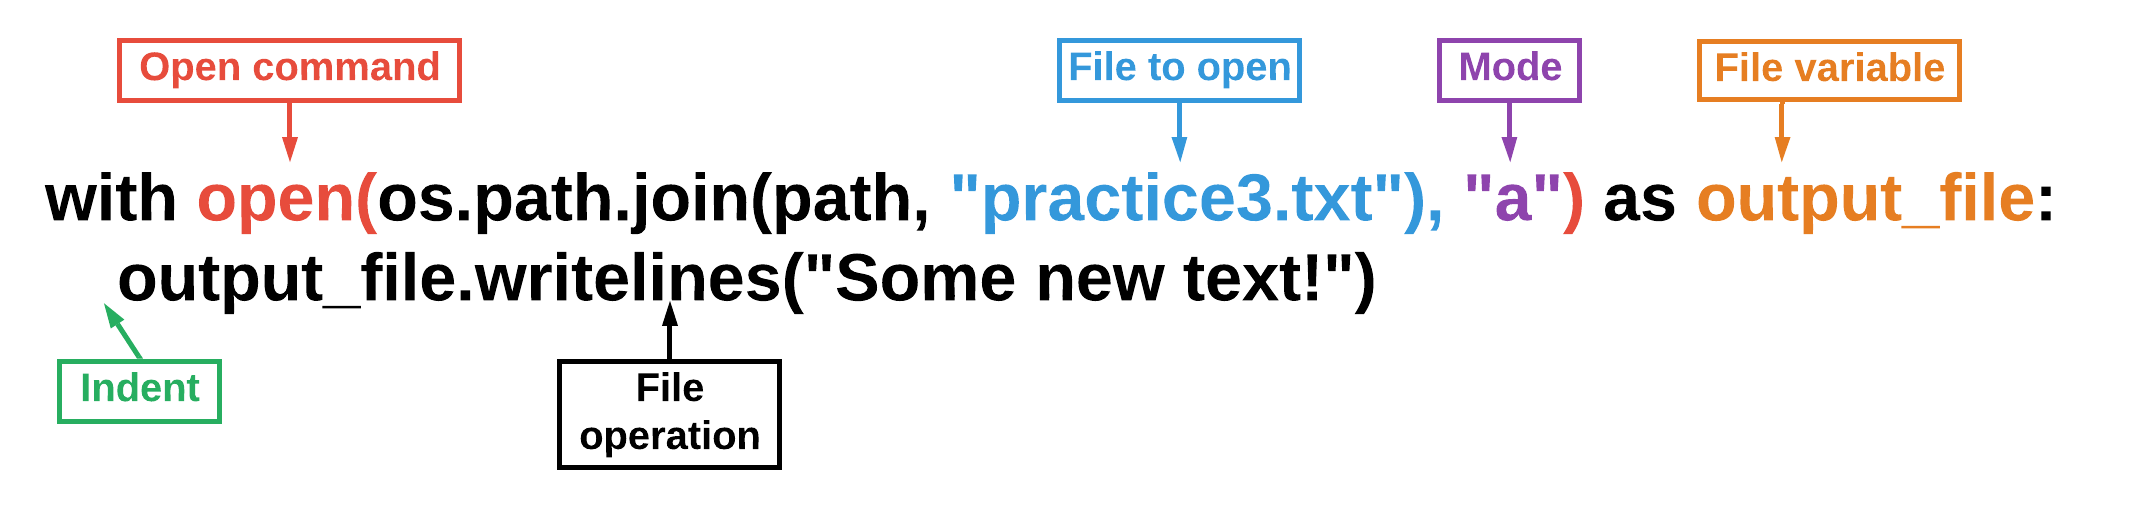
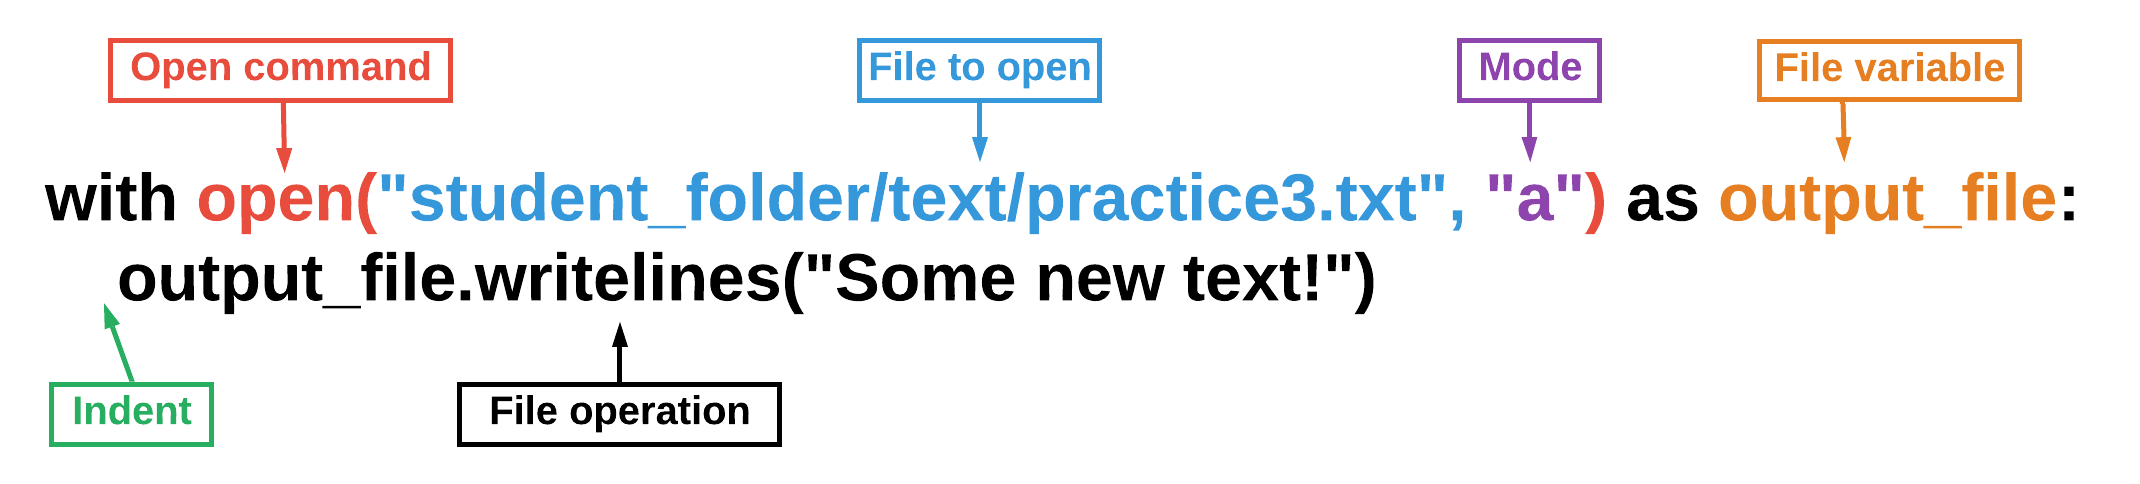
QA edits up through reading a file (but not formative assessment)

diff --git a/.guides/content/Append-Mode-d14b.md b/.guides/content/Append-Mode-d14b.md
@@ -5,11 +5,7 @@
 Write mode has some unusual behavior. Writing to a non-existent file creates the file. Writing to an already existing file erases the previous contents of the file. The append mode will also create a file if one does not already exist. However, append mode will not erase content already saved to the file. It will add the text to the end of the file. Run this code and look at the output.
 
 ```python
-import os
-
-path = "student_folder/text"
-
-output_file = open(os.path.join(path, "practice3.txt"), "w")
+output_file = open("student_folder/text/practice3.txt", "w")
 output_file.writelines("First sentence")
 output_file.close()
 ```
@@ -20,11 +16,7 @@ output_file.close()
 Now append the following text to the file.
 
 ```python
-import os
-
-path = "student_folder/text"
-
-output_file = open(os.path.join(path, "practice3.txt"), "a")
+output_file = open("student_folder/text/practice3.txt", "a")
 output_file.writelines("Second sentence")
 output_file.close()
 ```
@@ -37,12 +29,9 @@ output_file.close()
 * Change the append text to `writelines("\nSecond sentence")`?
 * Change the program to:
 ```python
-import os
-
-path = "student_folder/text"
 new_text = ["How many boards\n", "Could the Mongols hoard\n", "If the Mongols hordes got bored?"]
 
-output_file = open(os.path.join(path, "practice3.txt"), "a")
+output_file = open("student_folder/text/practice3.txt", "a")
 output_file.writelines(new_text)
 output_file.close()
 ```
@@ -59,11 +48,7 @@ Opening and closing files is an important part of working with files, but it can
 ![With Open](.guides/images/with-open.png)
 
 ```python
-import os
-
-path = "student_folder/text"
-
-with open(os.path.join(path, "practice3.txt"), "a") as output_file:
+with open("student_folder/text/practice3.txt", "a") as output_file:
     output_file.writelines("Some new text!")
 ```
 
@@ -75,11 +60,7 @@ with open(os.path.join(path, "practice3.txt"), "a") as output_file:
 * Change the text in `writelines()` to `"\nSome new text!"`?
 * Change the program to:
 ```python
-import os
-
-path = "student_folder/text"
-
-with open(os.path.join(path, "practice3.txt"), "a") as output_file:
+with open("student_folder/text/practice3.txt", "a") as output_file:
     output_file.writelines("\nSome new text!")
     output_file.writelines("\nAnd some more text!")
     output_file.writelines("\nYet even more text!")

diff --git a/.guides/content/Navigating-the-File-System-8fe7.md b/.guides/content/Navigating-the-File-System-8fe7.md
@@ -1,6 +1,6 @@
 ## Locating Student Files
 
-This unit is all about working with files on a computer. The first step is to open the desired file. That means navigating the file system to find the file in question. The open command requires the location (path) of the file and the filename. The file is called `practice1.txt`. It is located in the `text` folder, which is inside the folder called `student_folder`.  **This makes the path `student_folder/text/`.**
+This unit is all about working with files on a computer. The first step is to open the desired file. That means navigating the file system to find the file in question. The open command requires the location (path) of the file and the filename. The file is called `practice1.txt`. It is located in the `text` folder, which is inside the folder called `student_folder`.  **So the path to the file is `student_folder/text/practice1.txt`.**
 
 ![File Path](.guides/images/file-path.png)
 
@@ -10,14 +10,8 @@ Importing the `os` Python module allows Python to interact with the operating sy
 
 There are three different modes when opening a file: read (`"r"`), write (`"w"`), and append (`"a"`). You will focus on the write mode for now. Be sure to close the file when you are done with it.
 
-<details><summary>**Why use the `os` module?**</summary>The `os` module is commonly used in Python for working with the operating system. While opening a file can be done without the `os` module, you should be familiar with using modules to expand the capabilities of Python. The command `os.path.join` creates a path to a file by joining the contents of the variable `path` with the string `"practice1.txt"`. </details>
-
 ```python
-import os
-
-path = "student_folder/text"
-
-output_file = open(os.path.join(path, "practice1.txt"), "w")
+output_file = open("student_folder/text/practice1.txt", "w")
 output_file.close()
 ``` 
 
@@ -30,5 +24,7 @@ output_file.close()
 * Open `student_folder` in the sidebar on the left. Open the `text` folder and right-click on `practice1.txt`. Select "Delete..." and run the program again.
 
 |||
+
+{try it}(python3 code/files/writing.py 2)
 
 {Check It!|assessment}(multiple-choice-4246621000)

diff --git a/.guides/content/Read---Write---Two-Files-1aae.md b/.guides/content/Read---Write---Two-Files-1aae.md
@@ -5,11 +5,7 @@
 It is possible to open a file in read mode and another in write mode. Information can be passed from the reading file to the writing file. Like previous examples, `with open` will be used to open both files at once. The code below will open the file `read_practice` in read mode, create `destination.txt` in write mode, read the lines from the source file, and write these lines to the destination file. 
 
 ```python
-import os
-
-path = "student_folder/text"
-
-with open(os.path.join(path, "read_practice.txt"), "r") as source, open(os.path.join(path, "destination.txt"), "w") as dest:
+with open("student_folder/text/read_practice.txt", "r") as source, open("student_folder/text/destination.txt", "w") as dest:
     for line in source.readlines():
         dest.write(line)
 ```
@@ -17,15 +13,14 @@ with open(os.path.join(path, "read_practice.txt"), "r") as source, open(os.path.
 <details><summary>**`write` vs `writelines`**</summary>In the code above the `write` method is being used to write text to a file. Previously, the method `writelines` was used to write text to a file. What's the difference? `writelines` can accept a single string or a list of strings as shown in previous lessons. `write`, however, can only accept a single string.</details>
 
 {try it}(python3 code/files/read-write-two-files.py 1)
-[Open destination.txt](open_preview destination.txt)
+[Open destination.txt](open_preview student_folder/text/destination.txt)
 
 |||challenge
 ## What happens if you:
 * Change the for loop to:
 ```python
 for line in source.readlines():
-    line.upper()
-    dest.write(line)
+    dest.write(line.upper())
 ```
 
 * Change the for loop to:
@@ -38,8 +33,6 @@ for line in source.readlines():
 |||
 
 {try it}(python3 code/files/read-write-two-files.py 2)
-[Open destination.txt](open_preview destination.txt)
-
-{try it}(python3 code/path/to_file.py 4)
+[Open destination.txt](open_preview student_folder/text/destination.txt)
 
 {Check It!|assessment}(fill-in-the-blanks-810907680)

diff --git a/.guides/content/Read-Mode-fef7.md b/.guides/content/Read-Mode-fef7.md
@@ -5,11 +5,7 @@
 Read mode works much like write or append mode. Use a `"r"` when opening a file. Notice, there a file named `read_practice.txt`. Remove the underscore from the filename to see if a new file will be created like with the write and append modes.
 
 ```python
-import os
-
-path = "student_folder/text"
-
-read_file = open(os.path.join(path, "readpractice.txt"), "r")
+read_file = open("student_folder/text/readpractice.txt", "r")
 read_file.close()
 ```
 
@@ -22,11 +18,7 @@ Read mode does not create a new file if the file does not exist. You can only re
 Return the underscore to the filename so that it is `read_practice.txt`. Use a print statement to print the contents of the file to the screen.
 
 ```python
-import os
-
-path = "student_folder/text"
-
-read_file = open(os.path.join(path, "read_practice.txt"), "r")
+read_file = open("student_folder/text/read_practice.txt", "r")
 print(read_file)
 read_file.close()
 ```
@@ -38,11 +30,7 @@ Notice that Python does not print the contents of the text file. Instead it prin
 <details><summary>**UTF-8**</summary>There are many characters that go beyond letters and numbers. For example, punctuation, accents, symbols, emojis, etc. There needs to be a way to use these characters in a way that everybody can understand. Encoding is an agreed upon method for representing these characters. UTF-8 is by far the most popular way to encode text today. If you want to know more, check out this <a href="http://kunststube.net/encoding/">article</a>.</details>
 
 ```python
-import os
-
-path = "student_folder/text"
-
-read_file = open(os.path.join(path, "read_practice.txt"), "r")
+read_file = open("student_folder/text/read_practice.txt", "r")
 print(read_file.readlines())
 read_file.close()
 ```

diff --git a/.guides/content/Multiline-Strings-2e14.md b/.guides/content/Multiline-Strings-2e14.md
@@ -5,11 +5,7 @@
 Imagine that you want to write the words `Hello` and `there` on separate lines of a file called `practice2.txt`. If the `print` statement writes each string on its own line, the `writelines` should too.
 
 ```python
-import os
-
-path = "student_folder/text"
-
-output_file = open(os.path.join(path, "practice2.txt"), "w")
+output_file = open("student_folder/text/practice2.txt", "w")
 output_file.writelines("Hello")
 output_file.writelines("there")
 output_file.close()
@@ -44,12 +40,8 @@ output_file.writelines("Hello\nthere")
 It is possible to use a list of strings with the `writelines()` method. However, these strings will be written one after another with no space between. If you want spaces, be sure to add them. If you want text to appear on a newline, use `\n`.
 
 ```python
-import os
-
-path = "student_folder/text"
-
 lines_to_write = ["First sentence.", "Second sentence.", "Third sentence."]
-output_file = open(os.path.join(path, "practice2.txt"), "w")
+output_file = open("student_folder/text/practice2.txt", "w")
 output_file.writelines(lines_to_write)
 output_file.close()
 ```
@@ -59,8 +51,10 @@ output_file.close()
 
 |||challenge
 ## What happens if you:
-* Change `lines_to_write` to `["First sentence. ", "Second sentence. ", "Third sentence."]`?
-* Change `lines_to_write` to `["First sentence.\n", "Second sentence.\n", "Third sentence."]`?
+* Change `lines_to_write` to:
+`["First sentence. ", "Second sentence. ", "Third sentence."]`
+* Change `lines_to_write` to:
+`["First sentence.\n", "Second sentence.\n", "Third sentence.\n"]`
 
 |||
 

diff --git a/.guides/content/File-Iteration---While-Loop-ddaa.md b/.guides/content/File-Iteration---While-Loop-ddaa.md
@@ -5,11 +5,7 @@
 The `readlines` method reads all of the lines at once and returns them in a list. There is another method called `readline`. The `readline` method returns only one line from the text file. Python automatically keeps track of which lines have been read, and which have not.
 
 ```python
-import os
-
-path = "student_folder/text"
-
-with open(os.path.join(path, "read_practice.txt"), "r") as read_file:
+with open("student_folder/text/read_practice.txt", "r") as read_file:
     print(read_file.readline())
 ```
 
@@ -20,11 +16,7 @@ with open(os.path.join(path, "read_practice.txt"), "r") as read_file:
 * Change `readline()` to `readlines()`?
 * Change the code to look like this:
 ```python
-import os
-
-path = "student_folder/text"
-
-with open(os.path.join(path, "read_practice.txt"), "r") as read_file:
+with open("student_folder/text/read_practice.txt", "r") as read_file:
     print(read_file.readline(), end="")
     print(read_file.readline(), end="")
 ```
@@ -40,11 +32,7 @@ While loops can also iterate over a text file. Remember, while loops require a s
 ![Reading a File with a While Loop](.guides/images/while-loop-read-file.png)
 
 ```python
-import os
-
-path = "student_folder/text"
-
-with open(os.path.join(path, "read_practice.txt"), "r") as read_file:
+with open("student_folder/text/read_practice.txt", "r") as read_file:
     line = read_file.readline()
     while line != "":
         print(line)

diff --git a/.guides/content/File-Iteration---For-Loop-3303.md b/.guides/content/File-Iteration---For-Loop-3303.md
@@ -5,11 +5,7 @@
 The `readlines` method returns all of the text at once. A loop allows you to deal with each line individually. To print out the text as it would normally appear, use a for loop to print each line of the text.
 
 ```python
-import os
-
-path = "student_folder/text"
-
-with open(os.path.join(path, "read_practice.txt"), "r") as read_file:
+with open("student_folder/text/read_practice.txt", "r") as read_file:
     for line in read_file.readlines():
       print(line)
 ```
@@ -32,11 +28,7 @@ with open(os.path.join(path, "read_practice.txt"), "r") as read_file:
 You probably noticed that the printed text has an empty line between lines of text. If you open the original text file, there are no empty lines. The orignal text has a newline character at the end of each line. The print command also adds a newline character by default. So Python prints two new lines: the first one goes to the next line, the second one creates the blank line. Use `end=""` in the print statement to remove the blank line. This replaces the newline character with an empty string.
 
 ```python
-import os
-
-path = "student_folder/text"
-
-with open(os.path.join(path, "read_practice.txt"), "r") as read_file:
+with open("student_folder/text/read_practice.txt", "r") as read_file:
     for line in read_file.readlines():
       print(line, end="")
 ```

diff --git a/.guides/content/Seek-Method-83e1.md b/.guides/content/Seek-Method-83e1.md
@@ -5,11 +5,7 @@
 The seek method takes an integer as a parameter, and causes Python to go to a specific character in the text file. The integer is the index for the text file. So `seek(0)` is the first character of the file, `seek(1)` is the second character, etc.
 
 ```python
-import os
-
-path = "student_folder/text"
-
-with open(os.path.join(path, "read_practice.txt"), "r") as read_file:
+with open("student_folder/text/read_practice.txt", "r") as read_file:
     read_file.seek(30)
     print(read_file.readline())
     read_file.seek(0)
@@ -34,11 +30,7 @@ with open(os.path.join(path, "read_practice.txt"), "r") as read_file:
 It was previously stated that a file cannot be read multiple times. That is true when trying to use `readlines` twice. You must close and then open the file to read it again. However, the `seek` method can also be used to move Python back to the beginning of the text file.
 
 ```python
-import os
-
-path = "student_folder/text"
-
-with open(os.path.join(path, "read_practice.txt"), "r") as read_file:
+with open("student_folder/text/read_practice.txt"), "r") as read_file:
     print("First Time")
     for line in read_file.readlines():
         print(line, end="")

diff --git a/.guides/content/Writing-to-a-File-8960.md b/.guides/content/Writing-to-a-File-8960.md
@@ -5,11 +5,7 @@
 Once the file is opened, the `writelines()` method is used to write text to the file. Any string of text passed to `writelines()` will appear in the file. Once you are done writing to the file, close the file.
 
 ```python
-import os
-
-path = "student_folder/text"
-
-output_file = open(os.path.join(path, "practice1.txt"), "w")
+output_file = open("student_folder/text/practice1.txt", "w")
 output_file.writelines("Hello there")
 output_file.close()
 ```
@@ -23,7 +19,7 @@ output_file.close()
 ## What happens if you:
 * Change the string in `writelines()` to `"Goodbye"`?
 * Change the string in `writelines()` to `""`?
-* Change the mode to `open(os.path.join(path, "practice1.txt"), "r")`?
+* Change the mode to `open("student_folder/text/practice1.txt", "r")`?
 
 |||
 
